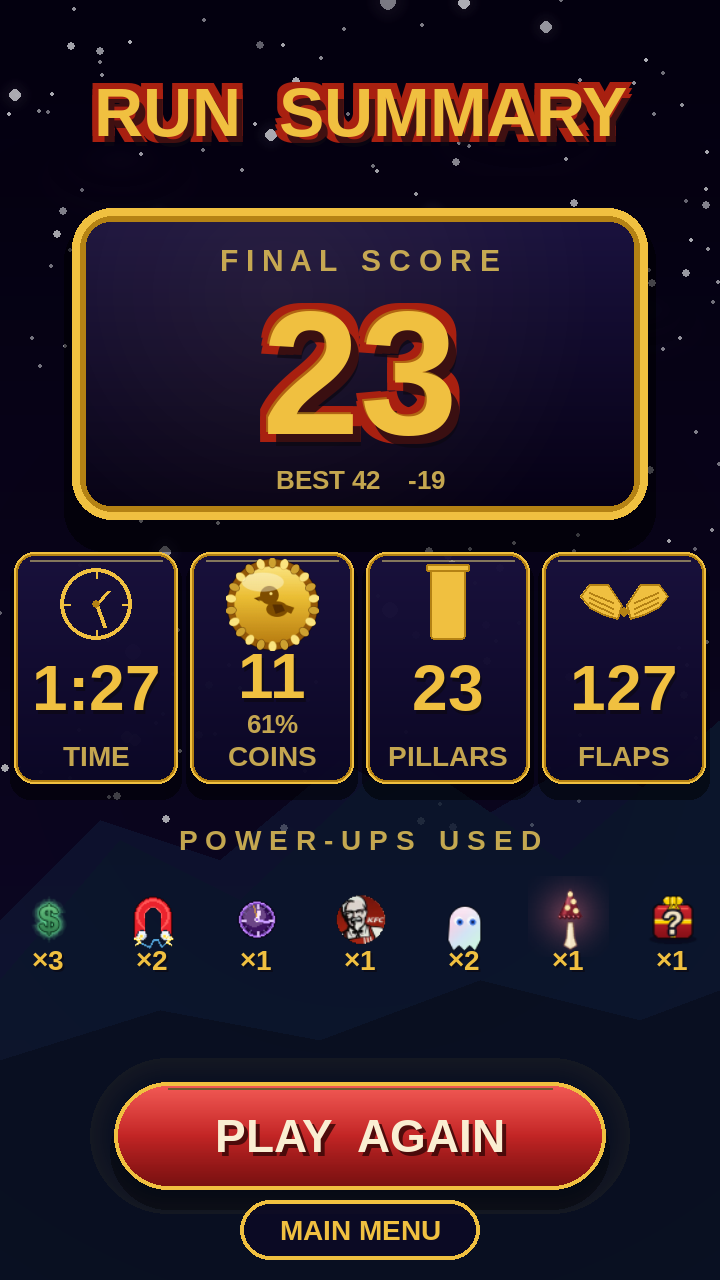
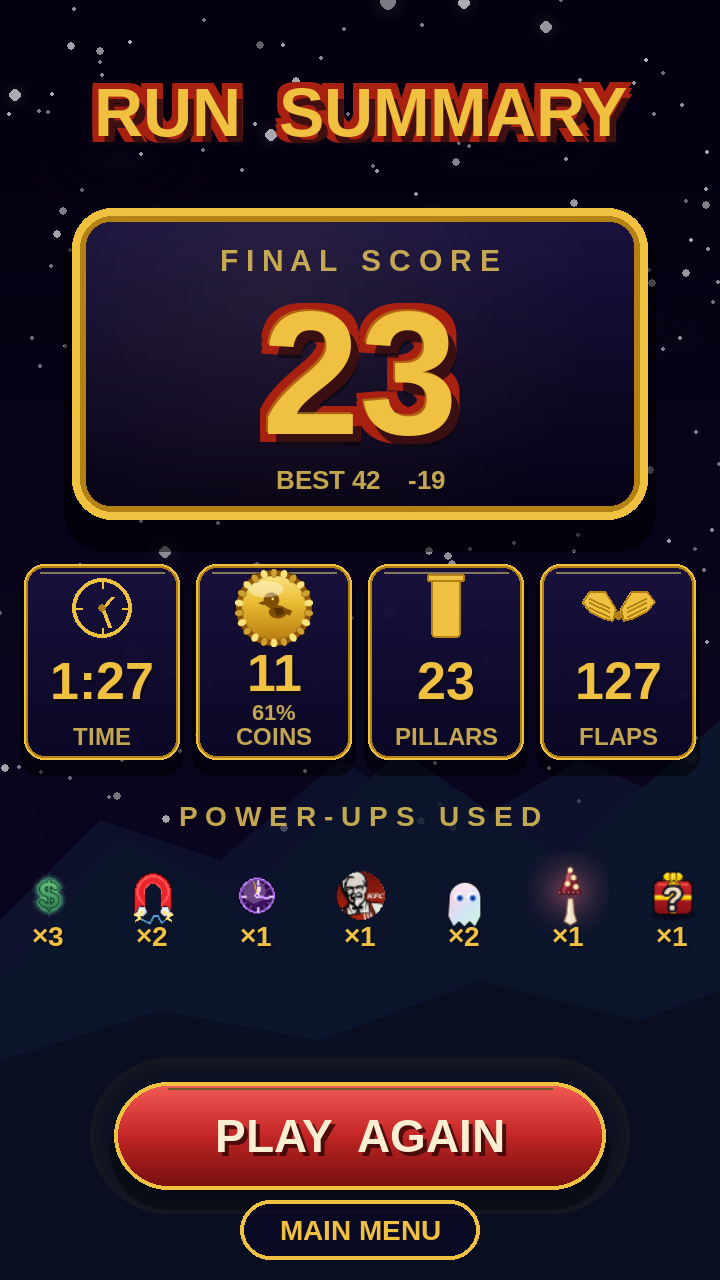
v1 tiles: dial sizing back to a professional middle ground
Previous round was too big — tiles dominated the screen. Pulled the
stat-tile content back one notch toward the original sizes while
keeping the legibility wins from the typography pass:

  - tile dimensions: 82×116 → 78×98
  - icon: 18 → 15
  - value: 32 → 26
  - label: 14 → 12
  - subline: 13 → 11

The wings glyph still reads clearly as a pair of bird wings at 15
because the polygon was redrawn with a bolder silhouette. Tiles now
feel like a stat row, not the hero.

https://claude.ai/code/session_01BEgi1kRwzhWvvC8NuZNc1t

diff --git a/tools/gen_run_summary_redesigns.py b/tools/gen_run_summary_redesigns.py
@@ -703,36 +703,35 @@ def stat_tile_chunky(surf, rect, icon_kind, value, label, subline=None):
                      (8 * SCALE, 4 * SCALE),
                      (rect.w - 8 * SCALE, 4 * SCALE), 1 * SCALE)
     surf.blit(body, rect.topleft)
-    # Icon — large enough to be the dominant element at the top of the
-    # tile; the wings glyph in particular needs the room to register
-    stat_icon(surf, icon_kind, rect.centerx, rect.y + 26 * SCALE,
-              size=18)
+    # Icon — sized to read clearly without dominating the tile
+    stat_icon(surf, icon_kind, rect.centerx, rect.y + 22 * SCALE,
+              size=15)
     # Value
-    vf = font(32, True).render(str(value), True, GOLD_BRIGHT)
-    vs = font(32, True).render(str(value), True, NEAR_BLACK)
+    vf = font(26, True).render(str(value), True, GOLD_BRIGHT)
+    vs = font(26, True).render(str(value), True, NEAR_BLACK)
     vs.set_alpha(170)
-    vy = rect.y + 62 * SCALE if subline else rect.y + 68 * SCALE
+    vy = rect.y + 54 * SCALE if subline else rect.y + 58 * SCALE
     vr = vf.get_rect(center=(rect.centerx, vy))
     surf.blit(vs, (vr.x + 1 * SCALE, vr.y + 2 * SCALE))
     surf.blit(vf, vr)
     # Optional subline — gold-muted caption directly below the value
     # (used for COINS to surface "61%" alongside the raw count)
     if subline:
-        sf = font(13, True).render(subline, True, GOLD_MUTED)
+        sf = font(11, True).render(subline, True, GOLD_MUTED)
         sf.set_alpha(230)
         surf.blit(sf, sf.get_rect(center=(rect.centerx,
-                                          rect.y + 86 * SCALE)))
+                                          rect.y + 74 * SCALE)))
     # Label — shrinks one step if the longer captions would otherwise
     # crowd the tile edges
     max_label_w = rect.w - 10 * SCALE
-    lbl_size = 14
+    lbl_size = 12
     lf = font(lbl_size, True).render(label, True, GOLD_MUTED)
-    while lf.get_width() > max_label_w and lbl_size > 11:
+    while lf.get_width() > max_label_w and lbl_size > 10:
         lbl_size -= 1
         lf = font(lbl_size, True).render(label, True, GOLD_MUTED)
     lf.set_alpha(230)
     surf.blit(lf, lf.get_rect(center=(rect.centerx,
-                                      rect.y + rect.h - 14 * SCALE)))
+                                      rect.y + rect.h - 12 * SCALE)))
 
 
 def powerup_chip(surf, cx, cy, kind, count, size=22):
@@ -878,12 +877,12 @@ def draw_v1_trophy_cinema(surf, data):
         ("pillar", data["pillars"], "PILLARS", None),
         ("flap", data["flaps"], "FLAPS", None),
     ]
-    tile_w = 82 * SCALE
-    tile_h = 116 * SCALE  # much taller for bigger icon + bigger value + bigger label
-    tile_gap = 6 * SCALE
+    tile_w = 78 * SCALE
+    tile_h = 98 * SCALE
+    tile_gap = 8 * SCALE
     total_w = len(tiles) * tile_w + (len(tiles) - 1) * tile_gap
     start_x = (W - total_w) // 2
-    tile_y = 276 * SCALE
+    tile_y = 282 * SCALE
     for i, (k, v, lbl, sub) in enumerate(tiles):
         r = pygame.Rect(start_x + i * (tile_w + tile_gap), tile_y,
                         tile_w, tile_h)
@@ -895,7 +894,7 @@ def draw_v1_trophy_cinema(surf, data):
     # logical canvas (7 × 44 + 6 × 4 = 332 px → 28 px total margin).
     pu = [(k, c) for k, c in data["powerups_picked"] if c and c > 0]
     if pu:
-        cap_y = 420 * SCALE
+        cap_y = 408 * SCALE
         cap2 = font(14, True).render("P O W E R - U P S   U S E D",
                                      True, GOLD_MUTED)
         cap2.set_alpha(230)
